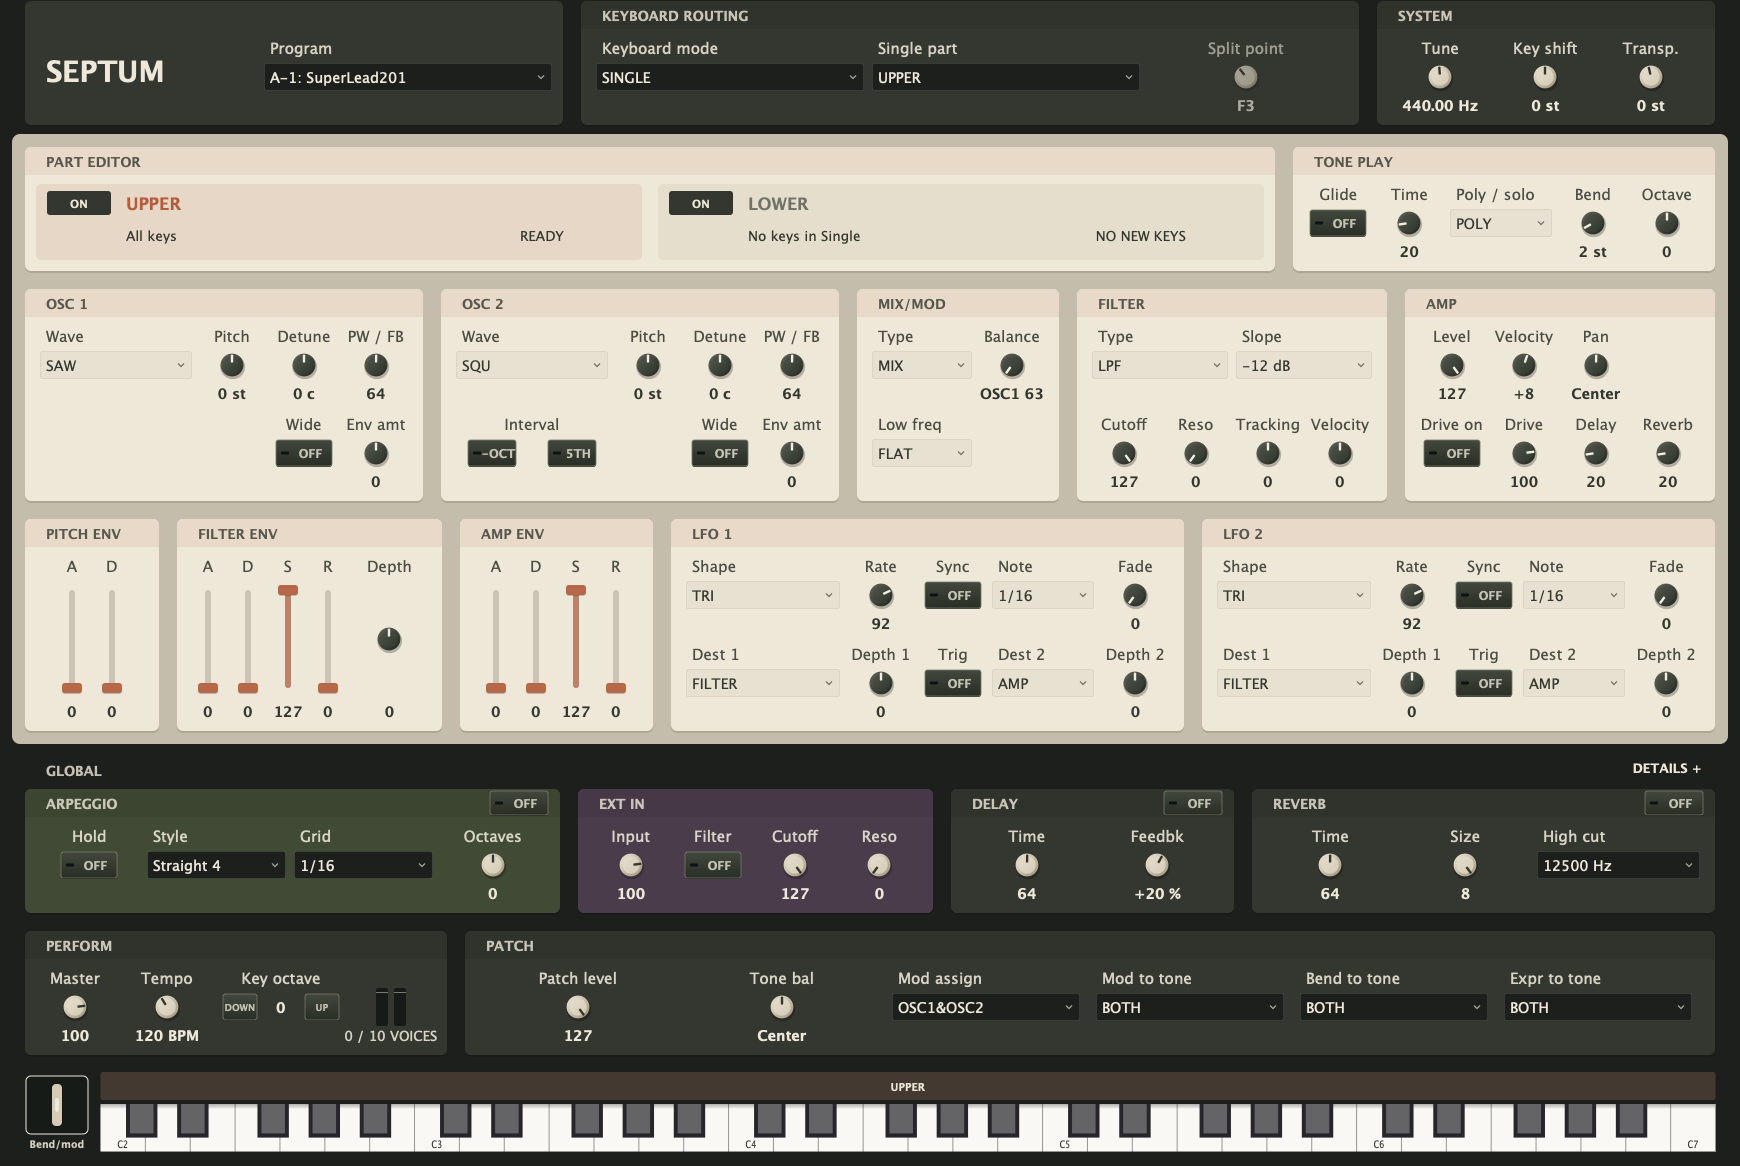
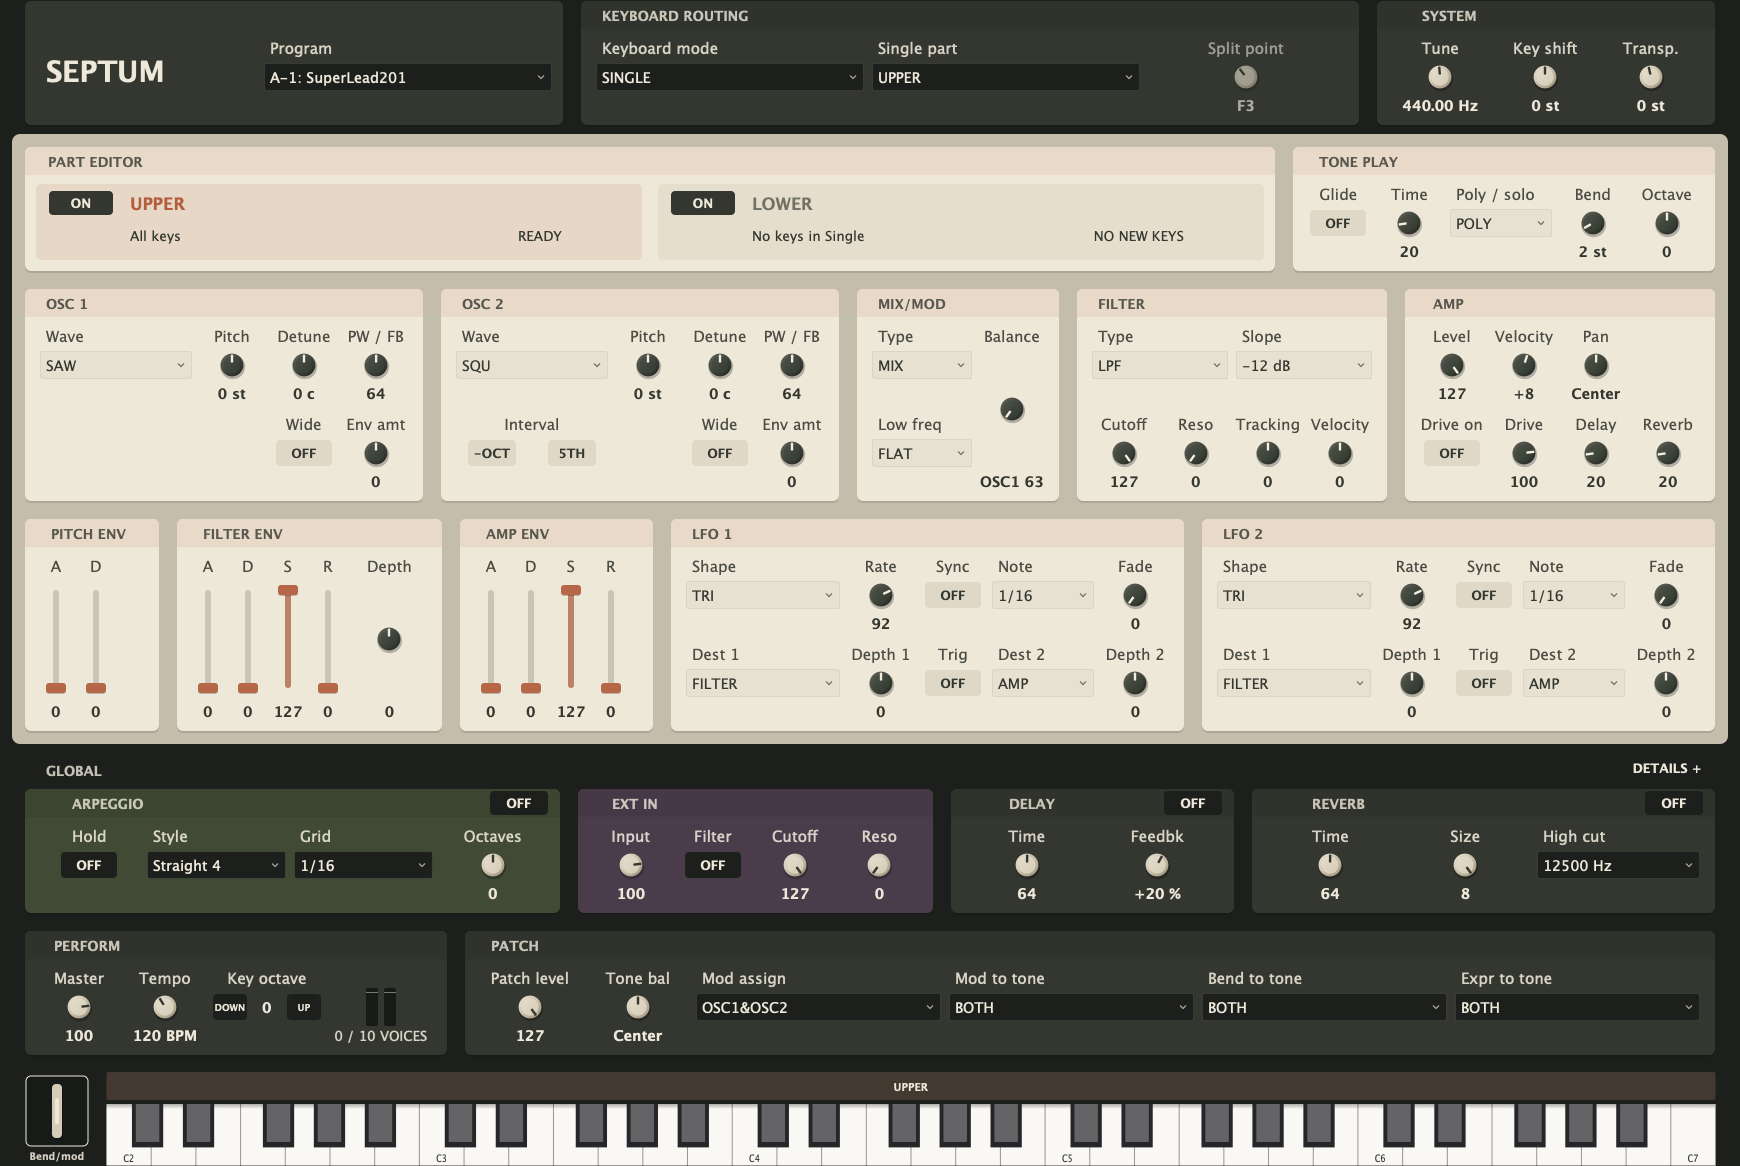
style(ui): refine padding and simplify switches

diff --git a/Source/PluginEditor.cpp b/Source/PluginEditor.cpp
@@ -45,6 +45,8 @@ constexpr int valueHeight = 18;
 constexpr int knobDiameter = 36;
 constexpr int comboHeight = 28;
 constexpr int toggleHeight = 28;
+constexpr int fieldInset = 4;
+constexpr int fieldTextInset = 6;
 
 constexpr int sectionTitleHeight = 26;
 constexpr int sectionPadding = 12;
@@ -53,12 +55,14 @@ constexpr int gridRowHeight = 76;      // label + control + value
 constexpr int controlRowGap = 12;
 constexpr int extraRowHeight = gridRowHeight + controlRowGap;
 constexpr int sectionGap = 16;
+constexpr int partPowerWidth = 66;
+constexpr int partNameOffset = partPowerWidth + sectionGap;
 constexpr float panelRadius = 6.0f;
 
 constexpr int keyZoneHeight = 28;
 constexpr int performanceHeight = sectionTitleHeight + gridRowHeight + 2 * sectionPadding;
 constexpr int headerHeight = performanceHeight;
-constexpr int keyboardHeight = 82;
+constexpr int keyboardHeight = 94;
 constexpr float meterFloorDb = -48.0f;
 constexpr int bandHeight = performanceHeight + extraRowHeight;
 constexpr int windowChromeWidth = 32;
@@ -71,7 +75,7 @@ constexpr int modulationTop = voiceTop + bandHeight + sectionGap;
 constexpr int sharedTop = modulationTop + bandHeight + 56;
 constexpr int performanceTop = sharedTop + performanceHeight + sectionGap;
 constexpr int keysTop = performanceTop + performanceHeight + sectionGap;
-constexpr int editorHeight = keysTop + keyboardHeight + 12;
+constexpr int editorHeight = keysTop + keyboardHeight;
 // Bound host resizing while still fitting the complete panel on small displays.
 constexpr int minimumWidth = editorWidth * 3 / 5;
 constexpr int minimumHeight = editorHeight * 3 / 5;
@@ -92,9 +96,22 @@ void layoutControlCell (juce::Component& component, juce::Label& caption,
     {
         // Field labels start at the same edge as the selected text. Rotary
         // labels and readouts remain centred on their control's axis.
-        caption.setBounds (component.getX() + 6, captionTop, width - 12, labelHeight);
+        caption.setBounds (component.getX() + fieldTextInset, captionTop,
+                           width - 2 * fieldTextInset, labelHeight);
         caption.setJustificationType (juce::Justification::centredLeft);
     }
+}
+
+int labelTextLeft (const juce::Label& label)
+{
+    const auto area = label.getBorderSize().subtractedFrom (label.getBounds());
+    const float textWidth = juce::jmin ((float) area.getWidth(),
+        juce::GlyphArrangement::getStringWidth (label.getFont(), label.getText()));
+    if (label.getJustificationType().testFlags (juce::Justification::horizontallyCentred))
+        return juce::roundToInt (area.getX() + (area.getWidth() - textWidth) * 0.5f);
+    if (label.getJustificationType().testFlags (juce::Justification::right))
+        return juce::roundToInt (area.getRight() - textWidth);
+    return area.getX();
 }
 
 void paintPanelSurface (juce::Graphics& g, juce::Rectangle<int> bounds, juce::Colour surface)
@@ -119,7 +136,8 @@ void paintPanelTitle (juce::Graphics& g, juce::Rectangle<int> bounds,
     g.setColour (ink.withAlpha (0.8f));
     g.setFont (juce::Font (juce::FontOptions (16.0f, juce::Font::bold)));
     g.drawText (title, bounds.withY ((int) bar.getY()).withHeight (panelTitleBarHeight)
-                            .reduced (inset, 0), juce::Justification::centredLeft);
+                            .withTrimmedLeft (inset).withTrimmedRight (sectionPadding),
+                juce::Justification::centredLeft);
 }
 } // namespace
 
@@ -281,40 +299,19 @@ void SeptumLookAndFeel::drawButtonBackground (juce::Graphics& g,
         }
         return;
     }
-    if (static_cast<bool> (button.getProperties()["power"]))
+    const bool lightPanel = static_cast<bool> (button.getProperties()["perTone"])
+                            || static_cast<bool> (button.getProperties()["power"]);
+    const auto ink = lightPanel ? colours::ink : colours::frame;
+    auto fill = on ? ink : lightPanel ? colours::paper.darker (0.025f) : colours::surround;
+    if (isHighlighted || isDown)
+        fill = fill.interpolatedWith (on ? colours::paper : ink, isDown ? 0.14f : 0.07f);
+    g.setColour (fill);
+    g.fillRoundedRectangle (bounds, 4.0f);
+    if (button.hasKeyboardFocus (true))
     {
-        // Enable is independent of editing. Neutral ON/OFF pills leave the
-        // selected card as the only prominent part-colour light in the header.
-        g.setColour (on ? colours::ink : colours::ink.withAlpha (0.14f));
-        g.fillRoundedRectangle (bounds, 3.0f);
-        if (button.hasKeyboardFocus (true))
-        {
-            g.setColour (on ? colours::frame : colours::ink);
-            g.drawRoundedRectangle (bounds, 3.0f, 1.0f);
-        }
-        return;
+        g.setColour (ink);
+        g.drawRoundedRectangle (bounds.expanded (0.5f), 4.0f, 1.0f);
     }
-    g.setColour (juce::Colours::black.withAlpha (0.8f));
-    g.fillRoundedRectangle (bounds.translated (0.0f, 1.0f), 2.5f);
-    g.setGradientFill (juce::ColourGradient (
-        isHighlighted ? juce::Colour (0xff56584e) : juce::Colour (0xff42483d),
-        bounds.getTopLeft(), juce::Colour (0xff292e26), bounds.getBottomLeft(), false));
-    g.fillRoundedRectangle (bounds, 2.5f);
-    g.setColour (button.hasKeyboardFocus (true) ? colours::frame
-                                              : juce::Colour (0xff777a69));
-    g.drawRoundedRectangle (bounds, 2.5f, 0.8f);
-    if (button.getWidth() < 48)
-        return; // Compact octave actions need their full face for the label.
-    const auto led = bounds.withSizeKeepingCentre (8.0f, 3.0f)
-                        .withX (bounds.getX() + 5.0f);
-    const auto ledColour = colours::ledOn;
-    if (on)
-    {
-        g.setColour (ledColour.withAlpha (0.15f));
-        g.fillRoundedRectangle (led.expanded (2.0f), 2.0f);
-    }
-    g.setColour (on ? ledColour : juce::Colour (0xff0b1315));
-    g.fillRoundedRectangle (led, 1.0f);
 }
 
 void SeptumLookAndFeel::drawComboBox (juce::Graphics& g, int width,
@@ -359,7 +356,7 @@ juce::Font SeptumLookAndFeel::getTextButtonFont (juce::TextButton&, int)
 void SeptumLookAndFeel::positionComboBoxText (juce::ComboBox& box,
                                                   juce::Label& label)
 {
-    label.setBounds (6, 1, box.getWidth() - 27, box.getHeight() - 2);
+    label.setBounds (fieldTextInset, 1, box.getWidth() - 27, box.getHeight() - 2);
     label.setBorderSize (juce::BorderSize<int> (0));
     label.setFont (juce::Font (juce::FontOptions (17.0f)));
 }
@@ -385,22 +382,18 @@ void SeptumLookAndFeel::drawButtonText (juce::Graphics& g,
         auto title = bounds.removeFromTop (28);
         g.setFont (juce::Font (juce::FontOptions (20.0f, juce::Font::bold)));
         g.setColour (on ? tone : colours::ink.withAlpha (0.65f));
-        g.drawText (button.getButtonText(), title.withTrimmedLeft (80),
+        g.drawText (button.getButtonText(), title.withTrimmedLeft (partNameOffset),
                     juce::Justification::centredLeft);
         return;
     }
-    if (static_cast<bool> (button.getProperties()["power"]))
-    {
-        g.setFont (juce::Font (juce::FontOptions (13.0f, juce::Font::bold)));
-        g.setColour (on ? colours::frame : colours::ink);
-        g.drawText (button.getButtonText(), bounds, juce::Justification::centred);
-        return;
-    }
+    const bool lightPanel = static_cast<bool> (button.getProperties()["perTone"])
+                            || static_cast<bool> (button.getProperties()["power"]);
+    const bool compact = button.getWidth() < 48;
     g.setFont (juce::Font (juce::FontOptions (
-        button.getWidth() < 48 ? 11.0f : 14.0f, juce::Font::bold)));
-    g.setColour (on ? colours::frame : colours::frame.withAlpha (0.78f));
-    g.drawText (button.getButtonText(),
-                bounds.withTrimmedLeft (button.getWidth() < 48 ? 0 : 13).reduced (1),
+        compact ? 11.0f : 15.0f, juce::Font::bold)));
+    g.setColour (on ? (lightPanel ? colours::frame : colours::ink)
+                   : (lightPanel ? colours::ink : colours::frame));
+    g.drawText (button.getButtonText(), bounds.reduced (compact ? 1 : 2, 0),
                 juce::Justification::centred);
 }
 
@@ -652,6 +645,7 @@ SeptumAudioProcessorEditor::SeptumAudioProcessorEditor (
 
     auto* mixMod = section ("MIX/MOD", Band::Voice);
     mixMod->rowCounts = { 2, 1 };
+    mixMod->positions = { { { 0 }, { 1, 1, 2 } }, { { 0 } } };
     addControl (*mixMod, "mix_type", "TYPE", Style::Combo);
     nameEnds (addControl (*mixMod, "balance", "BALANCE", Style::Knob),
               "OSC1", "OSC2");
@@ -1652,17 +1646,11 @@ void SeptumAudioProcessorEditor::layoutSection (Section& section,
         }
     }
 
-    // Vertical sliders take a left column strip at full content height: label
-    // on top, travel in the middle, value underneath. A section whose width
-    // was set by its title rather than by its contents — PITCH ENV is two
-    // 40 px cells under a nine-character name — centres the strip in what it
-    // was given instead of hugging the left edge.
+    // Fader strips share the same left padding, including the narrower
+    // pitch envelope. Labels stay on top and values share the bottom row.
     if (! sliders.empty())
     {
         const int stripWidth = (int) sliders.size() * sliderCell;
-        if (grid.empty())
-            content = content.withSizeKeepingCentre (stripWidth,
-                                                     content.getHeight());
         auto strip = content.removeFromLeft (stripWidth);
         for (std::size_t i = 0; i < sliders.size(); ++i)
         {
@@ -1719,12 +1707,13 @@ void SeptumAudioProcessorEditor::layoutSection (Section& section,
             const auto end = start + (std::size_t) position.span;
             const juce::Rectangle<int> cell {
                 gridLeft + offsets[start], content.getY() + (int) row * (rowHeight + controlRowGap),
-                offsets[end] - offsets[start], rowHeight
+                offsets[end] - offsets[start],
+                rowHeight * position.rowSpan + controlRowGap * (position.rowSpan - 1)
             };
             const bool selector = control->style == Style::Combo || control->style == Style::WideCombo;
             const bool button = control->style == Style::Toggle || control->style == Style::Action;
             layoutControlCell (*control->component, *control->label, control->value.get(), cell,
-                               selector ? cell.getWidth() - 8
+                               selector ? cell.getWidth() - 2 * fieldInset
                                         : button ? control->cellWidth() - 10 : knobDiameter,
                                selector ? comboHeight : button ? toggleHeight : knobDiameter);
             // INTERVAL is one label centered across the two action buttons.
@@ -1823,7 +1812,7 @@ void SeptumAudioProcessorEditor::layoutPanel()
             const int width = control->style == Style::Combo ? 276 : 204;
             layoutControlCell (*control->component, *control->label, control->value.get(),
                                { x, content.getY(), width, gridRowHeight },
-                               control->style == Style::Combo ? width - 8 : knobDiameter,
+                               control->style == Style::Combo ? width - 2 * fieldInset : knobDiameter,
                                control->style == Style::Combo ? comboHeight : knobDiameter);
             x += width;
         }
@@ -1842,15 +1831,15 @@ void SeptumAudioProcessorEditor::layoutPanel()
         partTabBounds[1] = row;
         for (std::size_t i = 0; i < 2; ++i)
         {
-            auto area = partTabBounds[i].reduced (10, 5);
+            auto area = partTabBounds[i].reduced (sectionPadding, 5);
             auto top = area.removeFromTop (28);
             (i == 0 ? upperEnableButton : lowerEnableButton).setBounds (
-                top.removeFromLeft (66).reduced (0, 1));
+                top.removeFromLeft (partPowerWidth).reduced (0, 1));
             (i == 0 ? upperButton : lowerButton).setBounds (
-                partTabBounds[i].reduced (10, 5));
+                partTabBounds[i].reduced (sectionPadding, 5));
             area.removeFromTop (6);
             auto text = area.removeFromTop (24);
-            text.removeFromLeft (80);
+            text.removeFromLeft (partNameOffset);
             partRouteLabels[i].setBounds (text.removeFromLeft (210));
             partActivityLabels[i].setBounds (text.withTrimmedRight (68));
         }
@@ -1863,46 +1852,63 @@ void SeptumAudioProcessorEditor::layoutPanel()
     detailsButton.setBounds (editorWidth - 178, sharedTop - 34, 150, 28);
     performSection->bounds = { 24, performanceTop + detailHeight, 424, performanceHeight };
     const int controlTop = performanceTop + detailHeight + sectionPadding + sectionTitleHeight;
+    auto performanceRow = performSection->bounds.reduced (sectionPadding)
+                             .withY (controlTop).withHeight (gridRowHeight);
     layoutControlCell (masterSlider, masterLabel, &masterValueLabel,
-                       { 32, controlTop, 86, gridRowHeight }, knobDiameter, knobDiameter);
+                       performanceRow.removeFromLeft (86), knobDiameter, knobDiameter);
     layoutControlCell (*tempoControl->component, *tempoControl->label, tempoControl->value.get(),
-                       { 124, controlTop, 86, gridRowHeight }, knobDiameter, knobDiameter);
-    auto octaveCell = juce::Rectangle<int> (222, controlTop, 118, gridRowHeight);
+                       performanceRow.removeFromLeft (86), knobDiameter, knobDiameter);
+    auto octaveCell = performanceRow.removeFromLeft (118);
     octLabel.setBounds (octaveCell.removeFromTop (labelHeight));
     octaveCell.removeFromBottom (valueHeight);
-    auto octaveButtons = octaveCell.withSizeKeepingCentre (118, toggleHeight);
+    auto octaveButtons = octaveCell.withSizeKeepingCentre (118 - 2 * fieldInset, toggleHeight);
     octDownButton.setBounds (octaveButtons.removeFromLeft (36));
     octUpButton.setBounds (octaveButtons.removeFromRight (36));
     octValueLabel.setBounds (octaveButtons);
-    meterBounds = { 352, controlTop + labelHeight, 78, gridRowHeight - labelHeight - valueHeight };
+    performanceRow.removeFromTop (labelHeight);
     voiceLabel.setFont (juce::Font (juce::FontOptions (16.0f)));
     voiceLabel.setBorderSize (juce::BorderSize<int> (0));
-    voiceLabel.setBounds (338, controlTop + gridRowHeight - valueHeight, 106, valueHeight);
+    voiceLabel.setBounds (performanceRow.removeFromBottom (valueHeight).reduced (2, 0));
+    meterBounds = performanceRow;
 
     stripSection->bounds = { 464, performanceTop + detailHeight, editorWidth - 488, performanceHeight };
     auto stripContent = stripSection->bounds.reduced (sectionPadding);
     stripContent.removeFromTop (sectionTitleHeight);
-    const int columns = (int) stripSection->controls.size();
-    const int cellWidth = stripContent.getWidth() / columns;
+    // Keep patch knobs at a readable fixed width. The remaining space
+    // belongs to the controller fields, using the standard field insets.
+    int selectorCount = 0;
+    int selectorSpace = stripContent.getWidth();
+    for (const auto* control : stripSection->controls)
+        if (control->style == Style::Combo)
+            ++selectorCount;
+        else
+            selectorSpace -= comboCell;
     int x = stripContent.getX();
     for (auto* control : stripSection->controls)
     {
+        const bool selector = control->style == Style::Combo;
+        const int cellWidth = selector ? selectorSpace / selectorCount : comboCell;
+        if (selector)
+        {
+            selectorSpace -= cellWidth;
+            --selectorCount;
+        }
         auto cell = juce::Rectangle<int> (x, stripContent.getY(), cellWidth,
                                           stripContent.getHeight());
         x += cellWidth;
         layoutControlCell (*control->component, *control->label, control->value.get(), cell,
-                           control->style == Style::Combo ? cellWidth - 16 : knobDiameter,
-                           control->style == Style::Combo ? comboHeight : knobDiameter);
+                           selector ? cellWidth - 2 * fieldInset : knobDiameter,
+                           selector ? comboHeight : knobDiameter);
     }
 
     auto keyboardRow = juce::Rectangle<int> (24, keysTop + detailHeight, editorWidth - 48, keyboardHeight);
     lever.setBounds (keyboardRow.removeFromLeft (66).reduced (0, 2));
-    keyboardRow.removeFromLeft (10);
+    keyboardRow.removeFromLeft (sectionGap);
     keyZoneBounds = keyboardRow.removeFromTop (keyZoneHeight);
     keyboardRow.removeFromTop (2);
     // Leave one pixel for rounding so JUCE never adds an unnecessary scroll arrow.
     keyboard.setKeyWidth ((float) (keyboardRow.getWidth() - 1) / 36.0f);
-    keyboard.setBounds (keyboardRow.reduced (0, 2));
+    keyboard.setBounds (keyboardRow.withTrimmedTop (2));
 
     reconcileEditTarget();
     refreshToneTarget();
@@ -1932,7 +1938,7 @@ void SeptumAudioProcessorEditor::paintPanel (juce::Graphics& g)
     paintPanelSurface (g, editToneSection->bounds, colours::paperWell);
     paintPanelTitle (g, editToneSection->bounds,
                      colours::paperWell.interpolatedWith (partColour, 0.10f), colours::ink,
-                     "PART EDITOR");
+                     "PART EDITOR", 2 * sectionPadding);
     g.setColour (colours::frame.withAlpha (0.8f));
     g.setFont (juce::Font (juce::FontOptions (16.0f, juce::Font::bold)));
     g.drawText ("GLOBAL", 24 + sectionPadding + 10, sharedTop - 30, 84, 24, juce::Justification::centredLeft);
@@ -1951,7 +1957,17 @@ void SeptumAudioProcessorEditor::paintPanel (juce::Graphics& g)
         const auto ink = perTone ? colours::ink : colours::frame;
         const auto titleBackground = perTone ? surface.interpolatedWith (partColour, 0.10f)
                                              : surface.darker (0.07f);
-        paintPanelTitle (g, section->bounds, titleBackground, ink, section->title);
+        // Align to the printed caption, not its wider centring box. This
+        // keeps headings aligned for fields, knobs, switches and faders.
+        const juce::Label* firstCaption = section.get() == performSection ? &masterLabel : nullptr;
+        for (const auto* control : section->controls)
+            if (firstCaption == nullptr && ! control->inHeader
+                && control->label->isVisible() && control->label->getText().isNotEmpty())
+                firstCaption = control->label.get();
+        const int titleInset = firstCaption != nullptr
+            ? juce::jmax (sectionPadding, labelTextLeft (*firstCaption) - section->bounds.getX())
+            : sectionPadding + fieldInset + fieldTextInset;
+        paintPanelTitle (g, section->bounds, titleBackground, ink, section->title, titleInset);
     }
     paintPartTabs (g);
 

diff --git a/Source/PluginEditor.h b/Source/PluginEditor.h
@@ -226,7 +226,7 @@ private:
         std::vector<int> rowCounts;
         // Columns are shared by every row. A wide selector can span narrow
         // columns; a pair of interval buttons can share the waveform column.
-        struct GridPosition { int column; int span { 1 }; };
+        struct GridPosition { int column; int span { 1 }; int rowSpan { 1 }; };
         std::vector<int> fixedColumns;
         std::vector<std::vector<GridPosition>> positions;
         bool manualLayout { false };

diff --git a/README.md b/README.md
@@ -116,16 +116,17 @@ render code. The open questions are listed under [Known gaps](#known-gaps).
 ### Reading the panel
 
 The SH-201-inspired panel combines a warm charcoal chassis, ivory part panels,
-hardware-style knobs and illuminated switches. A darker warm backing, wider
-gutters and lightly raised cards separate each module. Program, routing and
+hardware-style knobs and flat switches with clear on/off fills. A darker warm
+backing, wider gutters and lightly raised cards separate each module. Program, routing and
 system controls also occupy distinct cards. Larger labels, aligned value rows
 and explicit space between rows keep controls readable. Selector captions line
 up with their field text; knob and fader captions stay centred on their axes.
+Headers align with each panel's first caption, and fields share the same padding.
 LFO selectors, depth knobs and switches share consistent columns. Soft title
 bars follow the active part's colour, with the same silkscreen lettering at
-80% opacity. Shared
-headers use a quieter shade of their fixed panel colour. Space separates the
-modules without divider rules, tab stripes or decorative control ticks. The signal
+80% opacity. Shared headers use a quieter shade of their fixed panel colour.
+Space separates the modules without divider rules, tab stripes or decorative
+control ticks. The signal
 path reads left to right: OSC 1 + OSC 2 → MIX/MOD → FILTER → AMP, with envelopes
 and LFOs below. **TONE PLAY** sits beside the part selector above these panels,
 keeping portamento, glide time, voice mode, bend range and part octave with the
@@ -142,6 +143,7 @@ delay and reverb sit below the part panels;
 keyboard octave and tempo, while PATCH holds patch level, part balance and
 controller destinations. The delay and reverb sends remain in each part's
 **AMP** section because their levels belong to the selected part.
+The keyboard extends to the bottom edge of the panel.
 
 The default view shows the main arpeggio, input and effects controls.
 Arpeggio, delay and reverb on/off switches sit in their panel headers.
